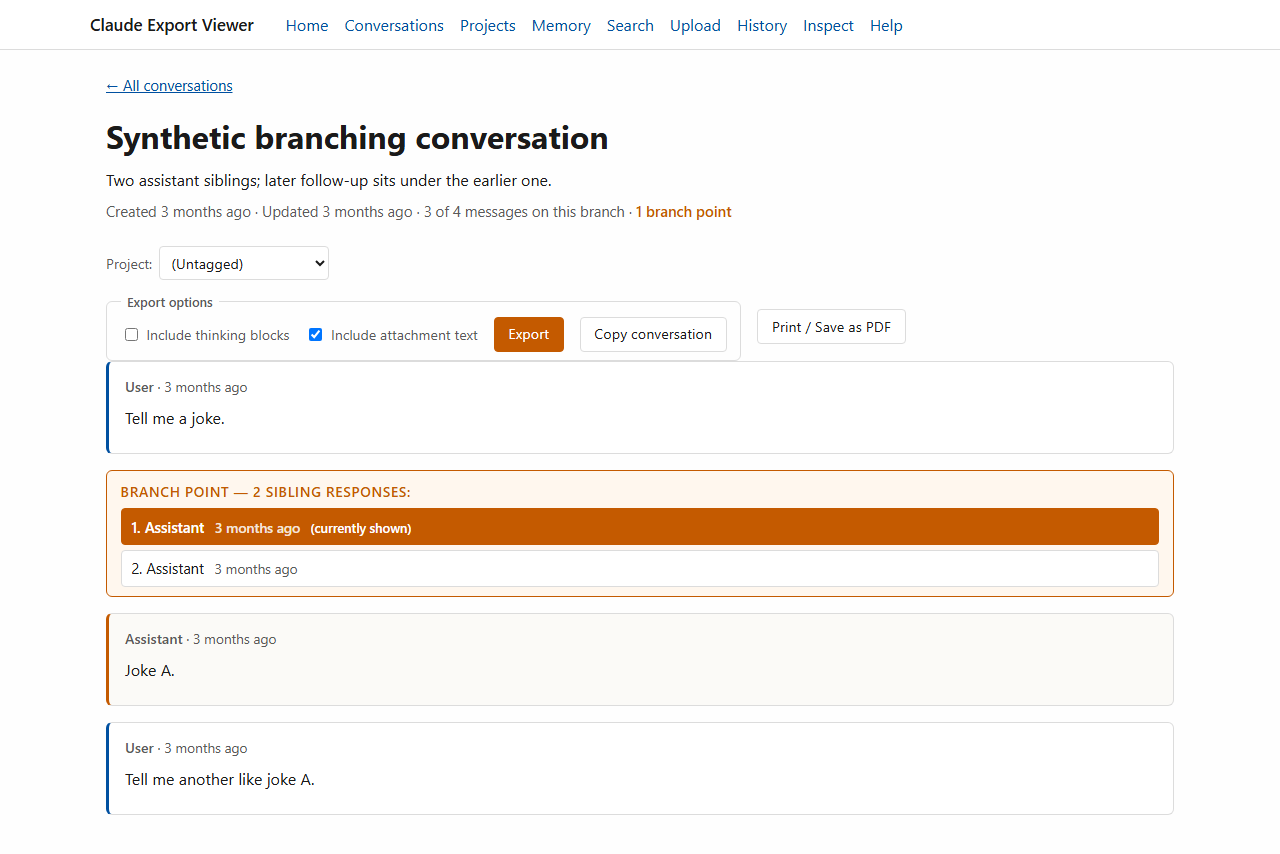
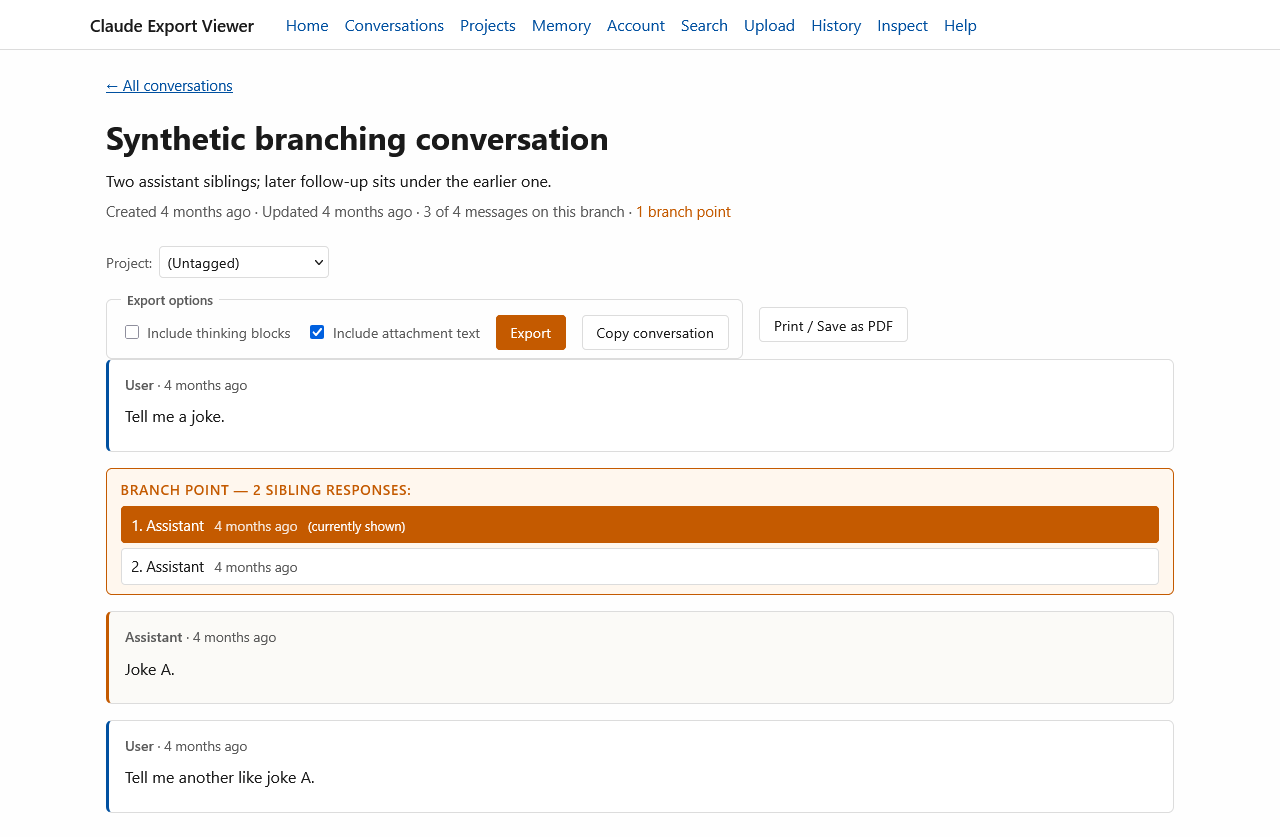
v1.3.0 Session T Phase 3: README and help updates, seven screenshots, release audit, plan close-out; bump to 1.3.0

diff --git a/docs/briefs/v1.3.0-session-t-phase3-report.md b/docs/briefs/v1.3.0-session-t-phase3-report.md
@@ -1,0 +1,121 @@
+# Session T Phase 3 Report — docs, screenshots, release audit, close
+
+Brief: `docs/briefs/v1.3.0-session-t-brief.md`, Phase 3. This phase ends with the
+two-phase close: everything below is **staged, nothing committed**, pending the
+operator's review; the bump-tag-push follows approval.
+
+## 1. README
+
+- Intro first sentence replaced with C6 verbatim ("the files Anthropic provides when you
+  request your data"); the rest of the paragraph stands.
+- Feature bullets per C7 verbatim: the Memory and Thinking bullets replaced; **Current
+  and legacy export formats** added as the lead bullet; **Account page** added beside
+  Memory; **Dark mode** added beside Thinking.
+- "Getting your export" already carried C8 (Session S); Quick start untouched.
+- The screenshots section gains captions and alt text for the three new images.
+
+## 2. Help
+
+- New `Appearance` section, C5 verbatim, placed between *Upload history* and *Backups
+  and your data* (placement was the session's call — flagged here for the review).
+- The "Reading a conversation" block list redrafted in the surrounding voice for the §9
+  renderings — Sources lists under cited paragraphs, summary-teased thinking with the
+  truncation/cut-off/hidden markers, display-content tool cards with the collapsed
+  JSON fallbacks, and injected-prompt cards. **This redraft is the one granted
+  latitude — flagged for operator review.**
+
+## 3. Screenshots (hard stop — presented for operator review with this report)
+
+All seven from the synthetic fixture via isolated instances (fixture-backed apps on
+scratch ports with a scratch database; two tags seeded through the real `set_tag` API),
+captured headless at 1280 px wide with the footer and theme control suppressed at
+capture time (profile-level stylesheet — the same visible outcome as the established
+footer rule). Current UI: the nav shows Account; the theme control never appears in a
+shot.
+
+| File | Content |
+|---|---|
+| `conversations.png` (retaken) | List with sort toggles, tag filter, mixed tag states, a branch callout |
+| `conversation-branches.png` (retaken) | The branching conversation at its branch point, switcher marking the shown sibling |
+| `search.png` (retaken) | Query hits with highlights and an alternate-branch callout |
+| `help.png` (retaken) | Full-page height, current section list (Appearance included), tagging section expanded |
+| `memory.png` (new) | Memory page, memory-files group with one file expanded showing its verbatim `---` header |
+| `account.png` (new) | Account details and the synthetic login-history table |
+| `conversation-dark.png` (new) | The thinking-and-tools conversation in dark mode, rendered through the real cookie path |
+
+The dark shot was produced against a scratch instance whose WSGI layer injects the
+`viewer_theme=dark` cookie — the same server-side rendering path a real override uses.
+
+## 4. Release audit
+
+- **pip-audit** (scratch venv, never a shipped dependency): 7 known vulnerabilities,
+  all in the scratch venv's own bootstrap `pip` (25.0.1; fixes land in later pip
+  releases) — **zero advisories against the project's dependency closure**. The
+  project package itself is reported "not found on PyPI and could not be audited",
+  as expected for a local, unpublished app. Same shape as the Session R Phase 2
+  audit verdict.
+- **Human-read sweep** over every doc, brief, fixture-builder string literal, and
+  template string added or changed in the arc (R, S, T; enumerated via
+  `git diff --name-only` from the arc's first commit): a mechanical leak-pattern pass
+  (real-looking UUIDs, user/machine paths, email addresses, IP addresses, cloud-folder
+  names) found only synthetic fixture values (zero-prefixed and `aaaa…`/`deadbeef`
+  UUIDs, TEST-NET IP ranges, `example.invalid` addresses) and the public author name;
+  stranger-eyes reads of the README, help, design record, hand-test brief/report, and
+  the arc's template strings found nothing personal and nothing that assumes the
+  original developer's context.
+- **Claim-check**: README and help read in full against current behaviour. The eight
+  claims the R Phase 2 report batched for this close all now hold:
+
+| R Phase 2 claim | Closed by |
+|---|---|
+| "the ZIP archive Anthropic sends" | C6 intro (README) and the Session S help intro — both now say "the files Anthropic provides" |
+| "Upload the ZIP… no need to unzip it" | C8 in both places — download all files, upload together, nothing unzipped |
+| "choose your export ZIP, and upload" | C9 help "Loading an export" — multi-file, any subset, banner discloses gaps |
+| Upload-cap phrasing | C6 help copy — per file, `VIEWER_MAX_UPLOAD_MB` |
+| "`active_export.zip`" in backups | Help backups section names the `active_export/` set folder, with the pre-set zip as the tolerated legacy |
+| "a content fingerprint" | Set fingerprint defined (record §5) and shipped; history/README wording now accurate |
+| "global memory and per-project memories" | C7 README bullet + help Memory section cover memory files; login history disclosed on the Account page section |
+| Settings-path instructions | Operator-verified in the hand-test (scenario 9) on claude.ai and the Windows desktop app |
+
+## 5. Plan close-out
+
+`docs/plan.md`: the v1.3.0 section marked shipped with a Session T locked-decisions
+entry; Session S relabelled shipped; the Dark mode bullet marked shipped. The 1.3.x
+queue now names all six confirmed items (bare-URL autolinking with the hand-test note,
+inline citation anchoring, bespoke `rich_content`/`json_block` rendering plus knowledge
+`links`, structured frontmatter presentation, the three toggles, launcher polish,
+embedded-HTML policy). 1.4+ untouched.
+
+## 6. Release text
+
+`docs/briefs/v1.3.0-release-notes.md` created from C8 verbatim, for the operator to
+paste into the GitHub Release. The one tool it names (`tools/scan_export_schema.py`)
+verified present.
+
+## 7. Two-phase close — state at hand-off
+
+- Full suite: **703 passed, 3 skipped** (the two dual-format skips plus the absent
+  legacy `data/data.zip` noted in the Phase 1 report). ruff clean; `black --check`
+  clean.
+- Author identities: `git log` shows only the noreply address.
+- Privacy greps at this close: the step-4 filename grep over staged files and the
+  step-5 content grep over the staged diff both run; every hit eyeballed — synthetic
+  fixture values and documentation copy only.
+- **Staged, not committed**: README, help, plan, the seven screenshots, the release
+  notes, and this report. `pyproject.toml` still reads 1.2.5 — the bump to 1.3.0, the
+  close commit, the `v1.3.0` tag, and the push happen only after the operator's
+  review. The GitHub Release itself is the operator's act.
+
+## Verification matrix
+
+| Check | Result |
+|---|---|
+| README C6/C7 applied verbatim | Diff-checked against the brief's §C text |
+| Help C5 verbatim; block-list redraft | Applied; both flagged items called out above |
+| Seven screenshots, isolated + suppressed chrome | Captured as described; presented at the hard stop |
+| pip-audit | Scratch venv; 7 advisories, all against the venv's own pip, zero against the project closure |
+| Sweep | Mechanical pass + stranger-eyes reads, findings above (none adverse) |
+| Eight-claim table | Closed entirely (table above) |
+| Plan | Shipped markers + queue confirmed; 1.4+ unchanged |
+| Suite / ruff / black | 703 passed, 3 skipped / clean / clean |
+| Nothing committed this phase | `git status` shows staged-only changes at hand-off |

diff --git a/docs/plan.md b/docs/plan.md
@@ -447,12 +447,13 @@ operator action** — the flip itself is never performed by a session.
     shots were operator-reviewed at the phase boundary and shipped; no purpose-built
     demo fixture.
 
-## v1.3.0 — in progress
+## v1.3.0 — shipped (arc closed by Session T, 2026-09-01; tagged `v1.3.0`)
 
 Arc: new export format support, dark mode, codebase review. Renumbering note: this version
 was provisionally "1.2.6"; the operator ratified "1.3.0" in 2026-08 — a whole-archive
 format change is a minor version by this project's semver rhythm, and the reserved patch
-series keeps its role under the name "1.3.x". No version bump until the arc's close session.
+series keeps its role under the name "1.3.x". The bump and tag landed with the close
+commit after the operator's staged review.
 
 - **Session R, Phase 1** *(shipped)* — new-format discovery (brief:
   `docs/briefs/v1.3.0-session-r-brief.md`; report:
@@ -554,13 +555,13 @@ format (manifest + four category zips replacing the single zip) and the memory s
 - Multi-file upload accepting any subset of the category zips with a degraded-view
   banner; the manifest optional. **(Cleared by the operator hand-test of 2026-09-01 —
   report: `docs/briefs/v1.3.0-session-s-operator-hand-test-report.md`.)**
-- Dark mode.
+- Dark mode. *(Shipped — Session T Phase 2, locked decisions below.)*
 - Development briefs excluded from the default GitHub download via `export-ignore`
   (streamlined download, files remain browsable; no separate branch or repo). *(Shipped
   ahead of the arc — commit "Exclude development briefs from generated archives" covers
   `docs/briefs/**`; the briefs-only scope was ratified with the Session S brief.)*
 - The codebase review (Session R Phase 2) feeding the arc's implementation briefs.
-- **Session S (implementation, in progress).** `docs/format-support-design.md` (ratified
+- **Session S (implementation)** *(shipped)*. `docs/format-support-design.md` (ratified
   2026-08-25) is the arc's normative design record, committed verbatim at the session's
   open. Phase 1 shipped *(locked)*: conftest consolidation — shared `export_path` /
   `export` / `app` / `client` / `app_factory` fixtures and one CSRF scraper in
@@ -606,8 +607,37 @@ format (manifest + four category zips replacing the single zip) and the memory s
   operator hand-test brief committed
   (`docs/briefs/v1.3.0-session-s-operator-hand-test.md`) — its results
   (`…-operator-hand-test-report.md`, filed 2026-09-01) cleared the upload shape's
-  *provisional* markers in Session T. Session T (dark mode, README polish,
-  screenshots, release) closes the arc.
+  *provisional* markers in Session T.
+- **Session T (arc close: fixes, dark mode, docs, release)** *(shipped)* — brief and
+  per-phase reports in `docs/briefs/`. Locked decisions:
+  - Hand-test follow-through: the report filed verbatim as the session's first commit;
+    the scenario-5 injected-prompt FAIL did not reproduce on current code (template,
+    CSS, JS, and live behaviour verified individually in Chromium and Firefox against
+    the real page); the directed hardening shipped anyway — one shared `collapsible`
+    contract across every reading-view `<details>`, test-pinned. The hand-test brief
+    corrected in place (reset now moves `data\` aside; the History When column is
+    always relative with the absolute timestamp as tooltip, threshold forms pinned).
+  - Record amendments A1–A4 applied with their code: mixed containers refused by
+    design with the C11 copy rendered on both routes (`MixedContainerError`);
+    route-level same-category part grouping (manifest part numbers first, then
+    distinct `-NNN` suffixes, otherwise last-wins-with-warning) feeding the §3 merge
+    in part order; set summaries carry `×N` part multiplicity (C3). Multi-part stays
+    provisional with §3 until a real multi-part export is observed.
+  - Dark mode per the ratified design: `viewer_theme` cookie (system/light/dark, one
+    year, HttpOnly), theme class server-rendered on `<html>` (no flash, no
+    localStorage), the palette fully tokenised (27 custom properties, light values
+    byte-equal to the replaced literals, all four banner colourways included),
+    `github-dark.min.css` vendored from the same 11.11.1 cdn-release with
+    media-attribute routing, print locked to light by an in-`@media print` token
+    reset — the identical-dark-blocks and print-coverage contracts are test-pinned.
+  - Docs and release: README intro (C6) and feature bullets (C7); help gains
+    `Appearance` (C5) and the redrafted reading-view block list; all seven
+    screenshots from the synthetic fixture via isolated instances (four retaken,
+    Memory/Account/dark-conversation new), footer and theme control suppressed at
+    capture, operator-reviewed at the close hard stop; release notes at
+    `docs/briefs/v1.3.0-release-notes.md` (C8 verbatim) for the operator's GitHub
+    Release; release audit — `pip-audit` in a scratch venv, the arc-wide
+    stranger-read sweep, and the R Phase 2 eight-claim table fully closed.
 
 ### Later (unscheduled, non-blocking)
 
@@ -620,8 +650,12 @@ format (manifest + four category zips replacing the single zip) and the memory s
   **link-appendix mode toggle** (appendix / inline URLs / none — appendix shipped as the
   fixed default), and the **summary-placement toggle** (body-level control over where the
   conversation summary appears — metadata-only shipped as Session O's fixed resolution:
-  frontmatter when present, so Copy omits it and Print keeps showing it), plus whatever
-  lived use surfaces.
+  frontmatter when present, so Copy omits it and Print keeps showing it); from the
+  v1.3.0 arc (record §11): **bare-URL autolinking** (the operator hand-test of
+  2026-09-01 observed plain-text links in replies — the deferred behaviour, not a
+  defect), **inline citation anchoring**, **bespoke `rich_content`/`json_block`
+  rendering** (plus knowledge `links` rendering), and **structured frontmatter
+  presentation for memory files**; plus whatever lived use surfaces.
 - Embedded-HTML display policy — the viewer and print strip disallowed HTML tags from
   displayed text (a literal `<details>` typed in a message vanishes from display), losing
   characters the author wrote; evaluate escape-to-visible-text as the display default, and

diff --git a/README.md b/README.md
@@ -1,6 +1,6 @@
 # Claude Export Viewer
 
-A local web app for reading your Claude.ai data export — the ZIP archive Anthropic sends when
+A local web app for reading your Claude.ai data export — the files Anthropic provides when
 you request your data. It gives you a browsable, searchable interface over your conversations
 (including the full branch history of regenerated and edited messages), your projects, and
 Claude's memory, with project tagging, full-text search, and upload history. Everything runs on
@@ -27,8 +27,25 @@ The in-app help page, with one section expanded:
 
 ![The help page with collapsible sections, one expanded to show the tagging workflow](docs/images/help.png)
 
+The Memory page, with a memory file expanded to show its metadata header above the rendered
+content:
+
+![The Memory page with memory files grouped by folder, one expanded showing its verbatim metadata header](docs/images/memory.png)
+
+The Account page, with account details and login history:
+
+![The Account page showing account details and a login-history table](docs/images/account.png)
+
+Reading a conversation in dark mode:
+
+![A conversation rendered in the dark theme, with a collapsed thinking block](docs/images/conversation-dark.png)
+
 ## Features
 
+- **Current and legacy export formats.** Loads the current multi-file export — a
+  manifest plus category ZIPs, in any subset — and older single-ZIP exports alike,
+  detected by content rather than filename, with a banner naming anything that's
+  missing.
 - **Conversation browsing with branch navigation.** Regenerated and edited messages appear as
   branch points with a switcher; every branch is reachable, and a given branch combination has
   a stable URL you can bookmark.
@@ -39,8 +56,11 @@ The in-app help page, with one section expanded:
   (not yet reviewed), tagged to a project, or confirmed as No Project — and tags persist when
   you upload a newer export, so the triage work stays done. Bulk tagging with shift-click
   range selection is built in.
-- **Memory rendering.** Claude's global memory and per-project memories, with collapsible
-  sections.
+- **Memory rendering.** Claude's conversation memory, its memory files (grouped by
+  folder, metadata headers shown verbatim), and per-project memories, all with
+  collapsible sections.
+- **Account page.** Your account details and, for current exports, your login history —
+  shown because it's your data.
 - **Full-text search** (SQLite FTS5) across messages — including alternate branches — titles,
   summaries, projects, knowledge documents, and memory. Natural-language queries work as-is; a
   built-in syntax guide covers phrases, prefixes, proximity, and boolean operators. Results
@@ -55,8 +75,11 @@ The in-app help page, with one section expanded:
   thinking blocks are opt-in.
 - **Print and PDF** — print or save any conversation as PDF from the browser, with a links
   appendix and what-you-see-is-what-you-get handling of collapsed sections.
-- **Thinking blocks** — Claude's reasoning is preserved and rendered as collapsible sections
-  within each conversation, flagged where the export marks a block truncated or cut off.
+- **Thinking blocks** — Claude's reasoning is preserved and rendered as collapsible
+  sections, teased by Claude's own summary where the export provides one, and flagged
+  where a block was truncated, cut off, or marked hidden in the app.
+- **Dark mode.** Follows your system preference, with a manual override remembered on
+  your machine.
 - **Syntax-highlighted code blocks**, via a vendored copy of highlight.js (no CDN).
 - **In-app help** covering everything from requesting an export to the tagging workflow.
 

diff --git a/viewer/content/help.md b/viewer/content/help.md
@@ -59,9 +59,10 @@ The full reading view. Messages are labelled **User** and **Assistant** and visu
 
 ### Message types and content blocks
 
-- **Text** renders as formatted markdown.
-- **Thinking blocks** (Claude's internal reasoning, where present) are collapsed by default with a size summary — expand to read.
-- **Tool use and tool results** render as labelled cards showing the tool name and result summary.
+- **Text** renders as formatted markdown. Where a current export records the web sources a passage cited, a small **Sources** list appears beneath the paragraph.
+- **Thinking blocks** (Claude's internal reasoning, where present) are collapsed by default — teased by Claude's own one-line summary when the export provides one, or by a size summary otherwise. Expand to read the reasoning, with the full summary list above it. Blocks the export marks truncated or cut off say so, and a block hidden in the Claude app carries a small **Hidden in the app** badge — the viewer shows everything in your export.
+- **Tool use and tool results** render as labelled cards showing the tool name. Where a current export carries the app's own display content, the card shows it — tables as tables, links as links, code as highlighted code — and anything structured beyond that folds into a collapsed section that expands to formatted JSON.
+- **Injected prompts** (text the product added to a turn — a skill or feature preamble) appear as collapsible **Injected prompt** cards, collapsed by default.
 - **Attachments** are folded into expandable blocks with their extracted text inside.
 - **Files** show a one-line notice — the export contains only the reference, never the file body.
 
@@ -159,6 +160,10 @@ After a re-import, some tags may point at things that no longer exist — a conv
 ## Upload history
 
 The [History](/history) page records every export load — when, whether it came from an upload or app startup, the filename, a content fingerprint, and the headline counts at the time. Over multiple re-imports it doubles as a record of how your archive has grown. Restarting the app with the same export doesn't add duplicate entries; uploading through the UI always records, even for a file you've loaded before.
+
+## Appearance
+
+The viewer follows your system's light or dark preference by default. Use the Theme control at the end of the navigation bar to choose Light or Dark instead; the choice is remembered on this machine in a small cookie the app sets for itself — nothing is sent anywhere. Printing and PDF output always use the light theme.
 
 ## Backups and your data
 

diff --git a/docs/briefs/v1.3.0-release-notes.md b/docs/briefs/v1.3.0-release-notes.md
@@ -1,0 +1,23 @@
+# v1.3.0 — current export format, memory files, dark mode
+
+Anthropic changed the data-export format: exports now arrive as a manifest plus
+separate ZIP files for conversations, projects, memories, and account metadata, and the
+memory system moved to a file-based model. This release loads both that format and the
+older single-ZIP exports.
+
+- Upload the new export files together — any subset loads, and a banner names what's
+missing. Older single-ZIP exports load exactly as before.
+- Memory page: conversation memory, memory files grouped by folder with their metadata
+headers, and project memories.
+- New Account page: your account details and login history.
+- Richer conversation rendering for current exports: tool cards use the app's display
+content, cited sources are listed beneath paragraphs, thinking blocks are teased by their
+summaries, and injected prompts appear as collapsible cards.
+- Dark mode, following your system preference with a manual override.
+- The 200 MB upload cap is now per file and configurable (VIEWER_MAX_UPLOAD_MB).
+- Thinking-block verification signatures are not stored or displayed — see the help
+page's "What the viewer doesn't keep".
+- New developer tool: tools/scan_export_schema.py, an aggregate-only schema profiler
+for either export format.
+
+Full details in docs/format-support-design.md and docs/export-schema.md.
